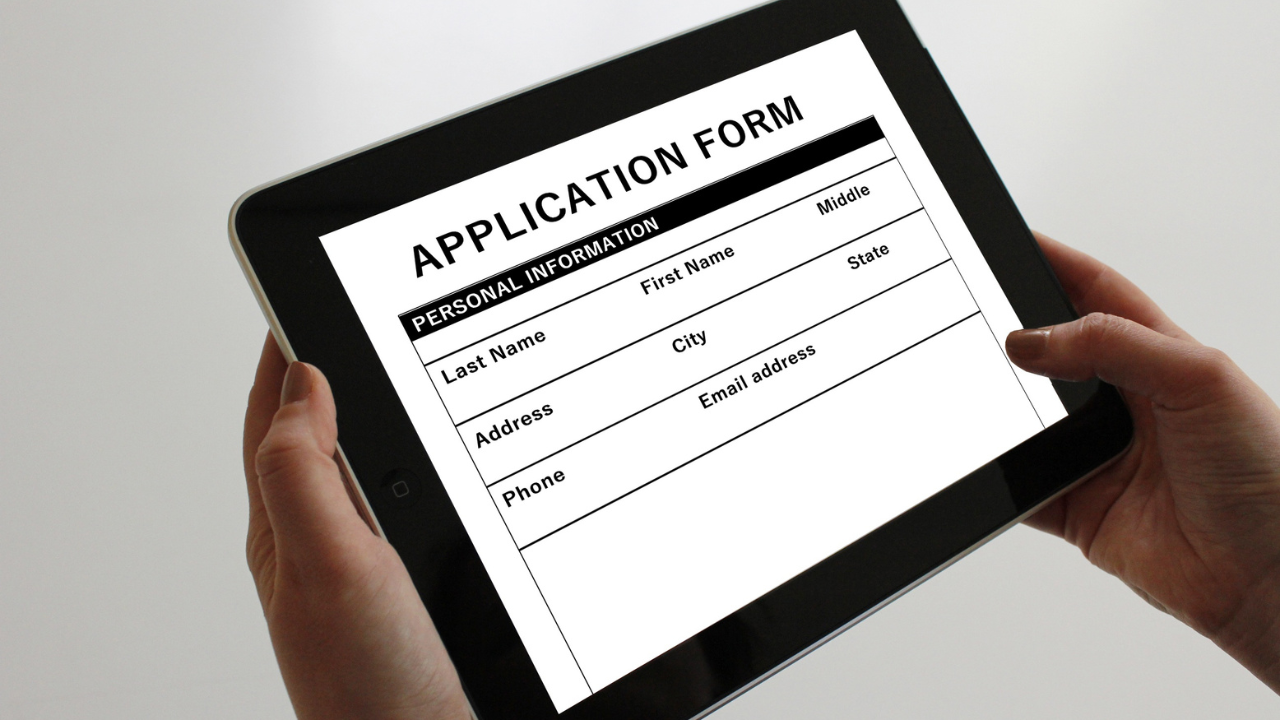
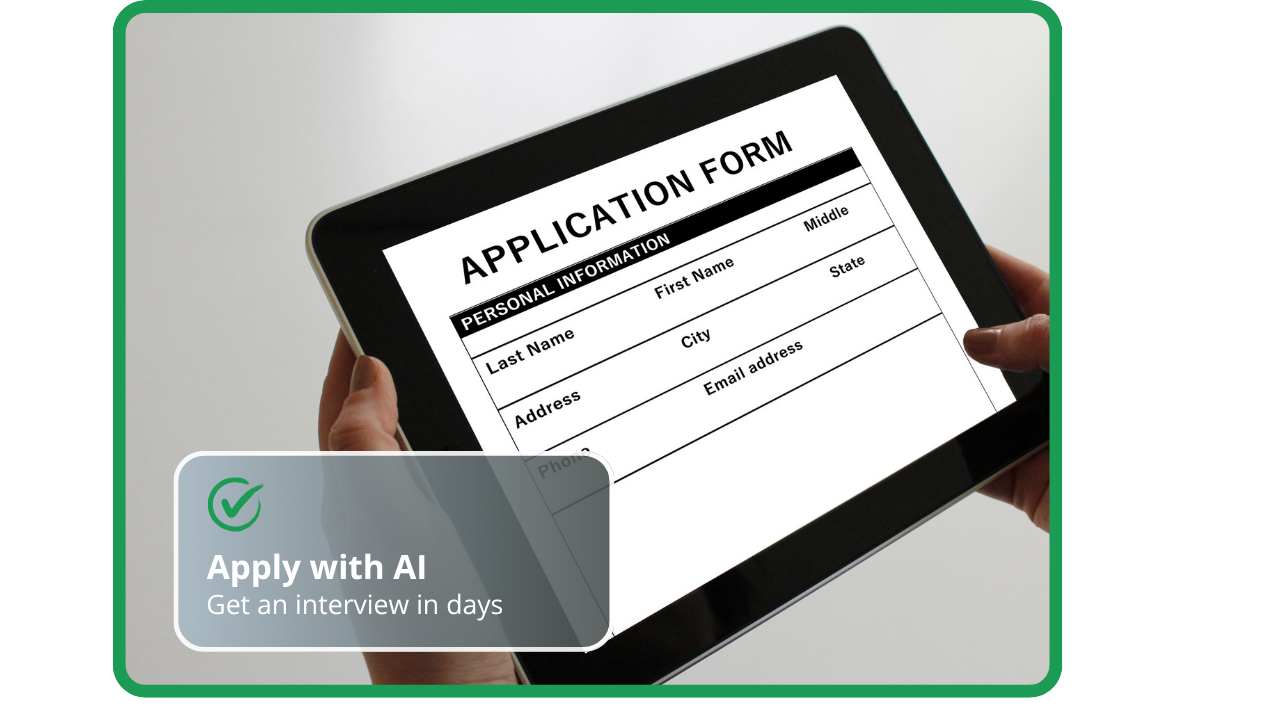
changes

diff --git a/src/pages/AutoApply/AutoApplyPage.tsx b/src/pages/AutoApply/AutoApplyPage.tsx
@@ -9,7 +9,7 @@ export default function AutoApplyPage() {
       <Navbar />
       <AutoApplyHero />
 
-      {/* Continuous light-gray band: value prop + 3 feature rows */}
+      {/* Continuous light-gray band: value prop + auto-apply feature row */}
       <div className="bg-[#ecedec]">
         <ValueProp />
 
@@ -21,40 +21,6 @@ export default function AutoApplyPage() {
             cta={{ label: 'Start auto-applying', href: '/signup' }}
             image="/assets/ai.png"
             imageAlt="Application form being filled out automatically on a tablet"
-          />
-        </div>
-
-        <div id="resume">
-          <FeatureRow
-            eyebrow="Profile Review."
-            title="Get past the filter."
-            description="Artemis analyzes your CV against real hiring signals like structure, clarity, and role alignment so you know exactly what to fix."
-            cta={{ label: 'Get my CV score', href: '/signup' }}
-            image="/assets/profile-review-photo.png"
-            imageAlt="Person reviewing a printed CV with a score badge"
-          />
-        </div>
-
-        <div id="interviews">
-          <FeatureRow
-            eyebrow="AI Mock Interviews."
-            title="Practice how you think, not just what you say"
-            description="Interviewing is not about memorization. Artemis simulates real conversations, asks follow-up questions, and shows you how to improve your thinking, communication, and structure."
-            cta={{ label: 'Start interview prep', href: '/signup' }}
-            image="/assets/mock-interview-photo.png"
-            imageAlt="Laptop with a mock interview in progress"
-            reverse
-          />
-        </div>
-
-        <div id="mentors">
-          <FeatureRow
-            eyebrow="Mentor Matching."
-            title="Get real guidance when AI is not enough."
-            description="Sometimes you need someone who has been there before. Connect with mentors who can review your progress, challenge your thinking, and guide your next move."
-            cta={{ label: 'Join waitlist', href: '/signup' }}
-            image="/assets/mentor-match-photo.png"
-            imageAlt="Two people in a mentoring session with a match notification"
           />
         </div>
       </div>
